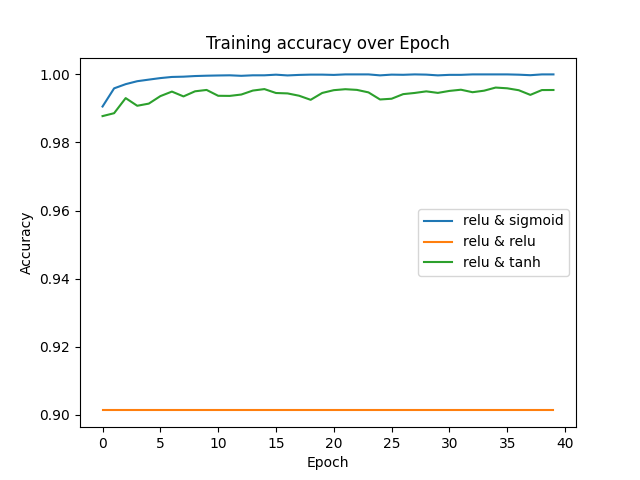
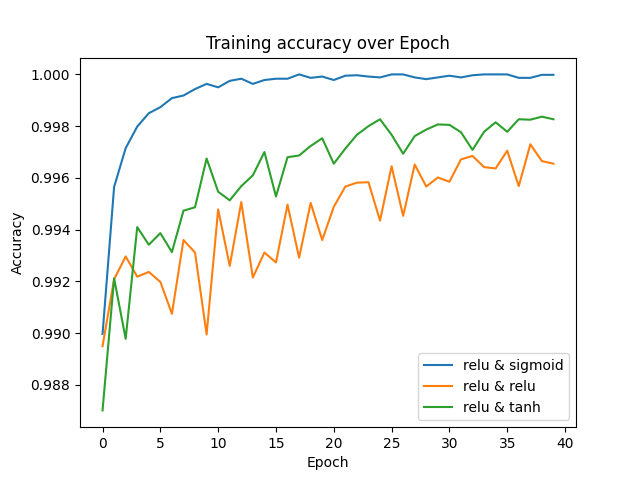
Lab3_2_pytorch

diff --git a/lab3_2_pytorch.py b/lab3_2_pytorch.py
@@ -12,29 +12,32 @@ from torchvision.transforms import ToTensor
 DIGIT = 5
 BATCH_SIZE = 32
 EPOCHS = 40
-HL_UNITS = []
+HL_UNITS = [8, 16, 32, 64, 128]
+NB_HLU = len(HL_UNITS)
 
 
 class NeuralNetwork(nn.Module):
     """TODO: Modify NN (add hidden layer)."""
 
-    def __init__(self, input_size):
+    def __init__(self, input_size, hlu):
         super(NeuralNetwork, self).__init__()
-        self.linear = nn.Linear(input_size, 1)
+        self.hidden = nn.Linear(input_size, hlu)
+        self.output = nn.Linear(hlu, 1)
         self.sigmoid = nn.Sigmoid()
         self.relu = nn.ReLU()
         self.tanh = nn.Tanh()
 
     def forward(self, x):
-        return self.sigmoid(self.linear(x))
+        return self.sigmoid(self.output(self.sigmoid(self.hidden(x))))
 
 
 if __name__ == "__main__":
     # Set up the device.
     device = "cuda" if torch.cuda.is_available() else "cpu"
 
-    scores = []
-    durations = []
+    hists = [] # Array of history over model version (one history being an array of (training_loss, training_accuracy) over epoch).
+    scores = [] # Array of evaluation score over model version (one evaluation score being (evaluation_loss, evaluation_score)).
+    durations = [] # Array of training time over model version.
     for hlu in HL_UNITS:
         print(f"\n###\n### HL UNITS: {hlu}\n###")
 
@@ -52,7 +55,7 @@ if __name__ == "__main__":
         assert image_size != 0
 
         # Define the model and its parameters.
-        model = NeuralNetwork(image_size).to(device)
+        model = NeuralNetwork(image_size, hlu).to(device)
         optimizer = torch.optim.Adam(model.parameters(), lr=1e-3)
         loss_fn = nn.BCELoss()
 
@@ -92,6 +95,9 @@ if __name__ == "__main__":
             history += [(epoch_loss, epoch_accuracy)]
             print(f"{epoch_time:.0f}s - loss: {epoch_loss:.4f} - accuracy: {epoch_accuracy:.4f}")
         training_time = time.time() - training_start_time
+        
+        # At the end of the model training, save its history (loss & accuracy over epoch) into the array of all history (one for each model version).
+        hists += [history]
 
         # Evaluate the model.
         dataset_size = len(test_dataloader.dataset)  # type: ignore
@@ -119,26 +125,44 @@ if __name__ == "__main__":
         # Display the summary.
         print(f"SUMMARY FOR HL UNITS {hlu}:\n    - Training Time: {training_time:.0f}s\n    - Loss: {model_loss:.2f}\n    - Accuracy: {model_accuracy:.2f}")
 
-    # Plot the loss history.
+    # Plot Training Loss Over Epoch
+    plt.clf()
+    for i in range(NB_HLU):
+        plt.plot(np.array(hists)[i, :, 0])
+    plt.xlabel("Epoch")
+    plt.ylabel("Loss")
+    plt.title("Loss over Epoch")
+    plt.savefig("plots/ex2/pytorch/lab3_2_pytorch_hlu_loss.png")
+
+    # Plot Training Accuracy Over Epoch
+    plt.clf()
+    for i in range(NB_HLU):
+        plt.plot(np.array(hists)[i, :, 1])
+    plt.xlabel("Epoch")
+    plt.ylabel("Accuracy")
+    plt.title("Accuracy over Epoch")
+    plt.savefig("plots/ex2/pytorch/lab3_2_pytorch_hlu_accuracy.png")
+
+    # Plot Evaluation Loss Over HLU
     plt.clf()
     plt.plot(HL_UNITS, np.array(scores)[:, 0])
     plt.xlabel("HL Units")
     plt.ylabel("Loss")
     plt.title("Loss over HL Units")
-    plt.savefig("plots/ex1/lab3_2_pytorch_bs_cmp_loss.png")
+    plt.savefig("plots/ex2/pytorch/lab3_2_pytorch_hlu_model_loss.png")
 
-    # Plot the accuracy history.
+    # Plot Evaluation Accuracy Over HLU
     plt.clf()
     plt.plot(HL_UNITS, np.array(scores)[:, 1])
     plt.xlabel("HL Units")
     plt.ylabel("Accuracy")
     plt.title("Accuracy over HL Units")
-    plt.savefig("plots/ex1/lab3_2_pytorch_bs_cmp_accuracy.png")
+    plt.savefig("plots/ex2/pytorch/lab3_2_pytorch_hlu_model_accuracy.png")
 
-    # Plot the duration history.
+    # Plot Training Time Over HLU
     plt.clf()
     plt.plot(HL_UNITS, durations)
     plt.xlabel("HL Units")
-    plt.ylabel("Duration")
-    plt.title("Duration over HL Units")
-    plt.savefig("plots/ex1/lab3_2_pytorch_bs_cmp_duration.png")
+    plt.ylabel("Training Time")
+    plt.title("Training Time over HL Units")
+    plt.savefig("plots/ex2/pytorch/lab3_2_pytorch_hlu_training_time.png")

diff --git a/lab3_2_keras.py b/lab3_2_keras.py
@@ -32,7 +32,7 @@ if __name__ == "__main__":
 
     HIST = []
 
-    # durations = []
+    durations = []
     
     # TODO: Add inputshape
     # for hlu in HL_UNITS:
@@ -43,16 +43,16 @@ if __name__ == "__main__":
             model.add(Dense(HL_UNITS[3], activation=af1))
             model.add(Dense(1, activation=af2))
             model.compile(optimizer="adam", loss="binary_crossentropy", metrics=["accuracy"])
-            # start_time = time.time()
+            start_time = time.time()
             history += [model.fit(x_train, y_train, batch_size=32, epochs=EPOCHS, validation_data=(x_test, y_test))]
-            # training_time = time.time() - start_time
-            # durations += [training_time]
+            training_time = time.time() - start_time
+            durations += [training_time]
             loss, accuracy = model.evaluate(x_test, y_test)
             # acc += [accuracy]
             print("** %s & %s **" % (af1, af2))
             print("Model Loss: %.2f." % loss)
             print("Model Accuracy: %.2f%%." % (accuracy * 100))
-            # print("Training time: %d", training_time)
+            print("Training time: %.0fs." % training_time)
         HIST += [history]
 
 
@@ -98,19 +98,21 @@ if __name__ == "__main__":
     # plt.savefig("plots/ex2/lab3_2_keras_hlu_model_accuracy.png")
 
     # Plot time over HL units/activation function
-    # plt.clf()
+    plt.clf()
 
     # plt.plot(HL_UNITS, durations)
     # plt.xlabel("Neurons in hidden layer")
 
-    # NP_ACTIVATION = np.array(ACTIVATION_FUN)
-    # models = np.transpose([np.tile(NP_ACTIVATION, len(NP_ACTIVATION)), np.repeat(NP_ACTIVATION, len(NP_ACTIVATION))])
-    # plt.plot(models, durations, 'o')
-    # plt.xlabel("Activation function")
+    NP_ACTIVATION = np.array(ACTIVATION_FUN)
+    models = np.transpose([np.repeat(NP_ACTIVATION, len(NP_ACTIVATION)), np.tile(NP_ACTIVATION, len(NP_ACTIVATION))])
+    models = [model[0] + " & " + model[1] for model in models] 
+    plt.figure(figsize=(15, 6))
+    plt.plot(models, durations, 'o')
+    plt.xlabel("Activation function")
 
-    # plt.ylabel("Duration")
-    # plt.legend()
+    plt.ylabel("Duration")
+    plt.legend()
     # plt.title("Duration over number of neurons in hidden layer")
     # plt.savefig("plots/ex2/lab3_2_keras_hlu_duration.png")
-    # plt.title("Duration over Activation functions")
-    # plt.savefig("plots/ex2/lab3_2_keras_af_duration.png")
+    plt.title("Duration over Activation functions")
+    plt.savefig("plots/ex2/lab3_2_keras_af_duration.png")
